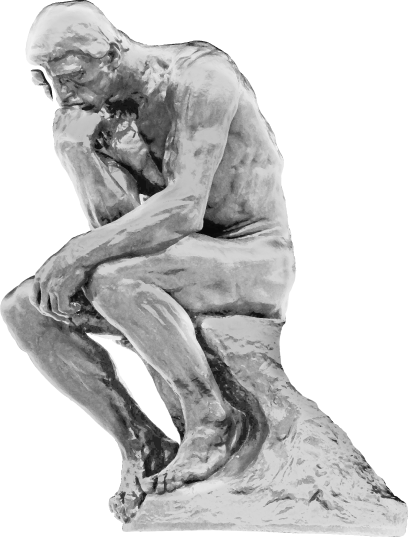
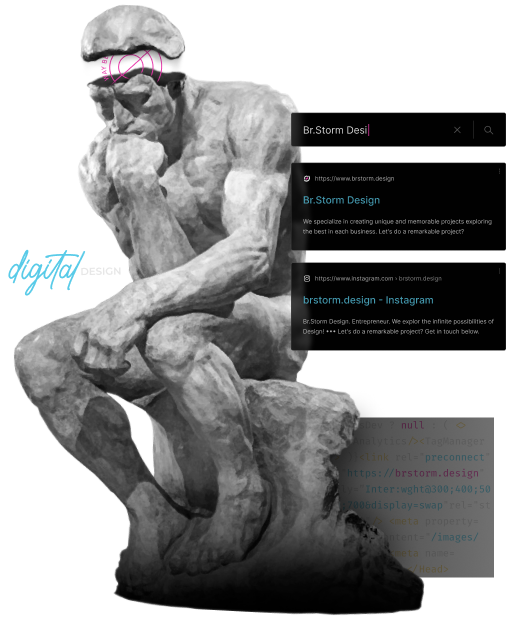
Updated illustrations

diff --git a/src/components/pitch/ContentManager/index.js b/src/components/pitch/ContentManager/index.js
@@ -11,7 +11,7 @@ export default function ContentManager({ /*content*/ }) {
     knowMore: {
       title: "Want to Know More?",
       text: "Access a preview of the site's content management system and see the provided interface",
-      preview: "Launch Live Preview",
+      preview: "See a Preview",
     }
   }
 
@@ -27,9 +27,7 @@ export default function ContentManager({ /*content*/ }) {
       <div className="container">
         <div className="row">
           <div className="col-12 col-lg-7">
-            <div className={styles.placeholder}>
-              <img src="/images/wireframes/img-icon.svg" alt="" />
-            </div>
+            <img src="/images/cms/illustration.png" className="img-fluid" alt="" />
           </div>
           <div className="col-12 col-lg-4 offset-lg-1">
             <div className={styles.textContent}>

diff --git a/src/components/pitch/ContentManager/ContentManager.module.scss b/src/components/pitch/ContentManager/ContentManager.module.scss
@@ -26,10 +26,16 @@
       border-left: 0;
       border-top: 0;
       border-image: linear-gradient(90deg, #555555ff 0%, #55555500 100%) 1;
-
+      
       @include mixins.lg {
         padding-bottom: 40px;
         margin-bottom: 40px;
+      }
+      @include mixins.md {
+        padding-bottom: 0;
+        margin-bottom: 0;
+        border-bottom: 0;
+        text-align: center;
       }
     }
   }
@@ -41,6 +47,10 @@
         @include mixins.lg {
           margin: 24px 0 30px 0;
         }
+      }
+
+      @include mixins.md {
+        display: none;
       }
     }
   }

diff --git a/src/components/pitch/About/index.js b/src/components/pitch/About/index.js
@@ -15,7 +15,7 @@ export default function About({ content }) {
             </div>
           </div>
           <div className="col-12 col-lg-5 offset-lg-1 order-1 order-lg-2">
-            <img className="img-fluid d-block mx-auto" src={`${rootPath}/images/illustrations/venus.png`} alt="" />
+            <img className="img-fluid d-block mx-auto" src={`${rootPath}/images/illustrations/the-thinker.png`} alt="" />
           </div>
         </div>
       </div>
